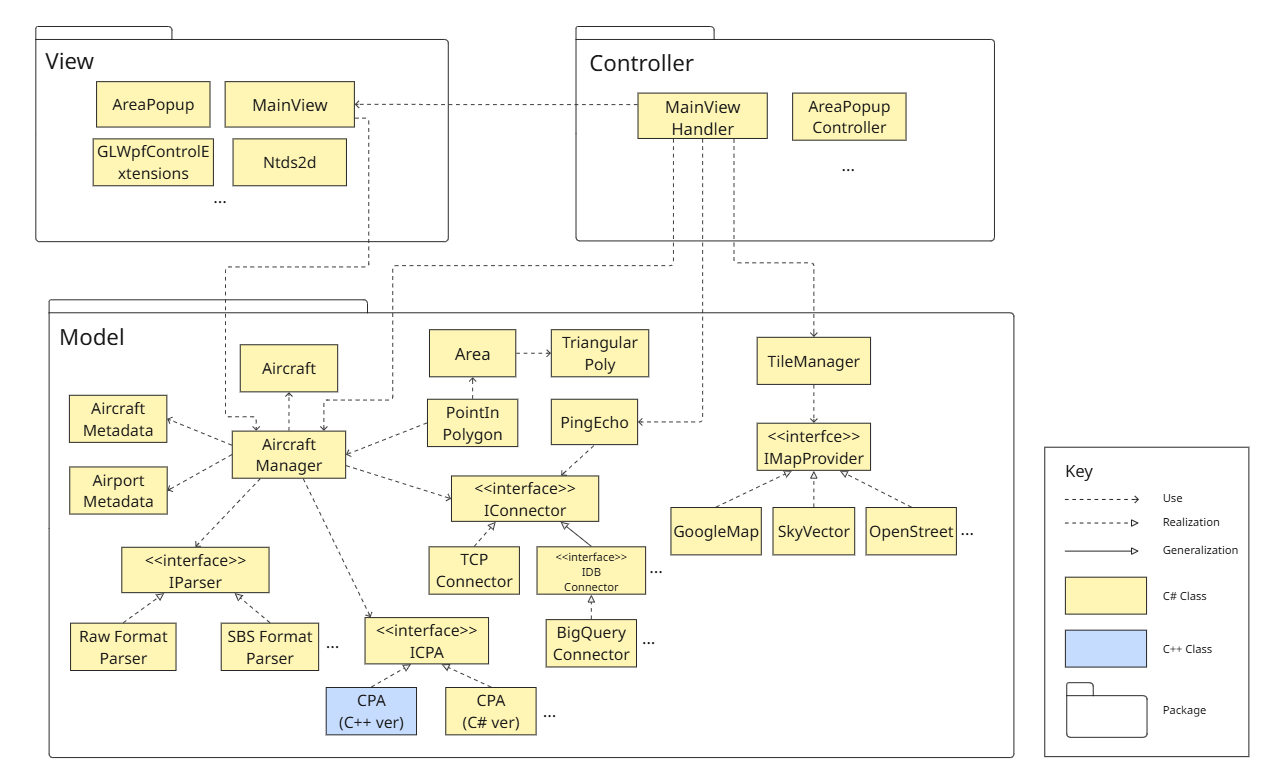
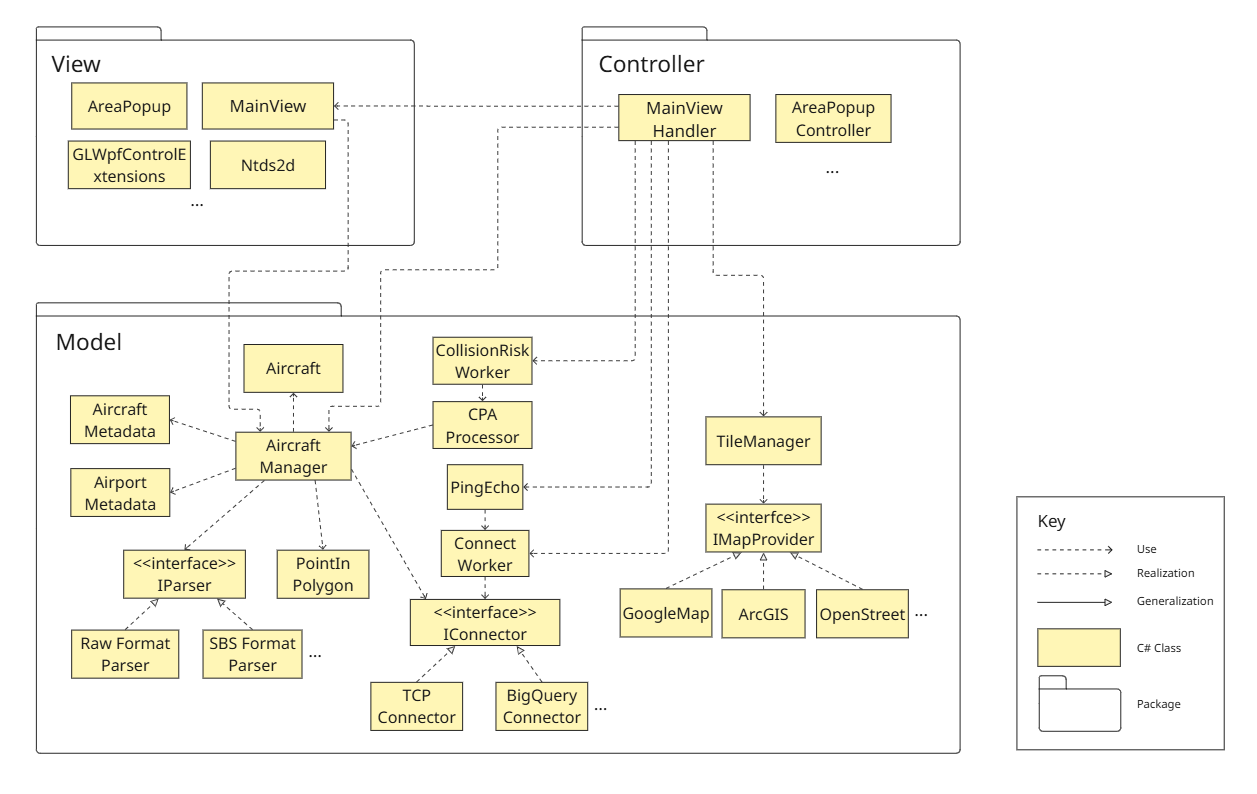
Fix cnc and class view

diff --git a/architecture/mvc-architecture-class-view.md b/architecture/mvc-architecture-class-view.md
@@ -20,32 +20,27 @@ This section provides the catalog of additional classes.
 #### `AirportMetadata`
 - Stores static metadata about airports.
 
-#### `TriangularPoly`
-- A data structure that stores polygon shapes, typically used when users define custom areas on the map.
+#### `PointInPolygon`
+- It checks whether an aircraft is inside a specific polygon and returns the result.
 
-#### `Area`
-- Represents a geographical region defined by the user.  
-- Uses `TriangularPoly` for geometric definition.  
-- Interacts with `AircraftManager` for region-based filtering or monitoring.
+#### `GoogleMap`
+- Gets Google map tiles as the backend via REST API.
+
+#### `ArcGIS`
+- Gets ArcGIS map tiles as backend via REST API.
+
+#### `OpenStreet`
+- Gets OpenStreet map tiles as backend via REST API.
 
 #### `IMAPProvider`
 - Interface for different map providers.
-- Realized by `GoogleMap`, `SkyVector`, and `OpenStreet`.
+- Realized by `GoogleMap`, `OpenStreet` and `ArcGIS`.
 - Used by `TileManager` to manage map tile rendering.
 
 #### `IConnector`
 - Interface for network or database communication.
 - Realized by `TCPConnector` and Generalized by `IDBConnector`, etc.
 - Used by `PingEcho` for connectivity monitoring.  
-
-#### `IDBConnector`
-- Interface for external database communication.
-- Realized by `BigQueryConnector`, etc.
-
-#### `ICPA`
-- Interface for performing analysis on aircraft data.
-- Realized by classes like `CPA`.
-  - CPA can be implemented in various languages such as C++ or C#, and is loaded as a DLL (runtime shared library).
 
 #### `IParser`
 - Interface for data parsers.

diff --git a/architecture/mvc-architecture-cnc-view.md b/architecture/mvc-architecture-cnc-view.md
@@ -33,22 +33,13 @@ This architecture view describes how the Intelligent Flight Tracking Assistant s
 - Decodes incoming ADS-B strings into structured data.
 - Supports multiple input formats for extensibility.
 
-#### `CPA(Closest Point of Approach) / pointInPolygon / etc`
+#### `CPA(Closest Point of Approach) / etc`
 - Computational threads that run background analysis (e.g., proximity, zone alerting).
 - Periodically query Aircraft Manager and respond to changes (every 333ms).
 
 #### `TileManager`
 - Requests and manages map tiles from external sources.
 - Supplies updated visual maps to the View layer.
-
-#### `GoogleMap`
-- Google maps as the backend.
-
-#### `SkyVector`
-- SkyVector aviation maps as backend.
-
-#### `OpenStreet`
-- OpenStreet maps as backend.
 
 ### ***View***
 
@@ -83,7 +74,7 @@ This architecture view describes how the Intelligent Flight Tracking Assistant s
   ![Rendering Sequence Diagram](../images/rendering-sequence-diagram.png)
 
 ### Sequence of Aircraft Alarm (Red #1-2 in primary diagram):
-- `CPA` monitors aircraft position changes.
+- `CollisionRiskWorker` monitors aircraft position changes.
 - When criteria are met (e.g., collision risk), it sends alarm to `Views`
   - Trigger a collision risk alert if two aircraft come within 1nm of each other within the next 30 seconds.
   - The CPA computation workflow is as follows:
